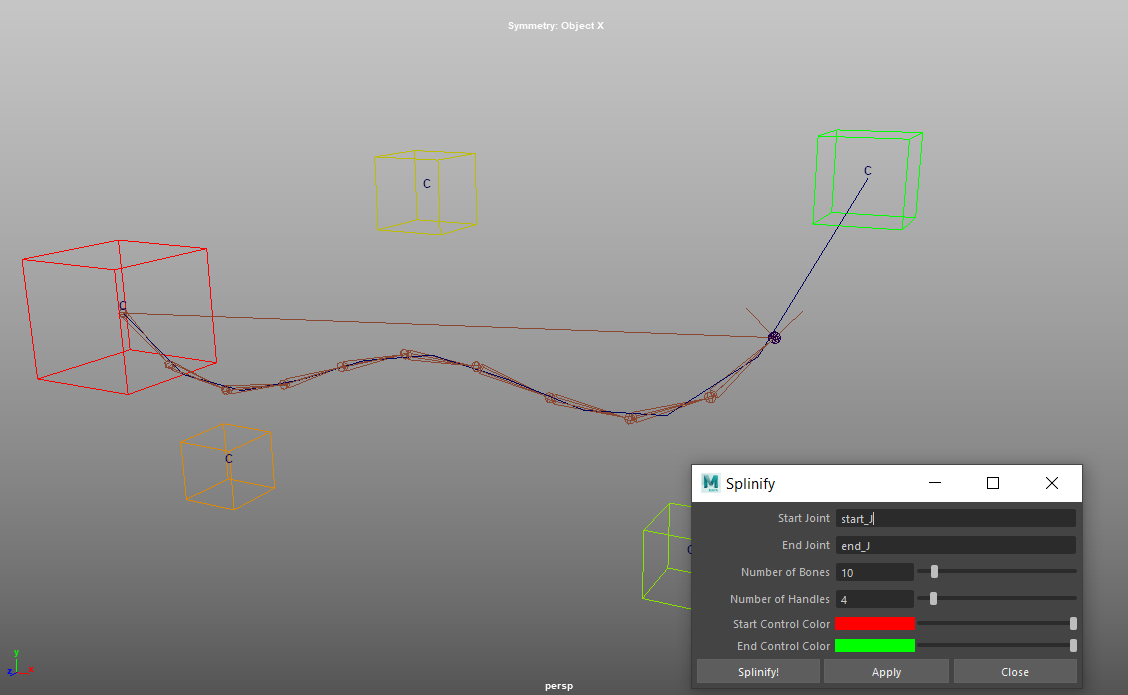
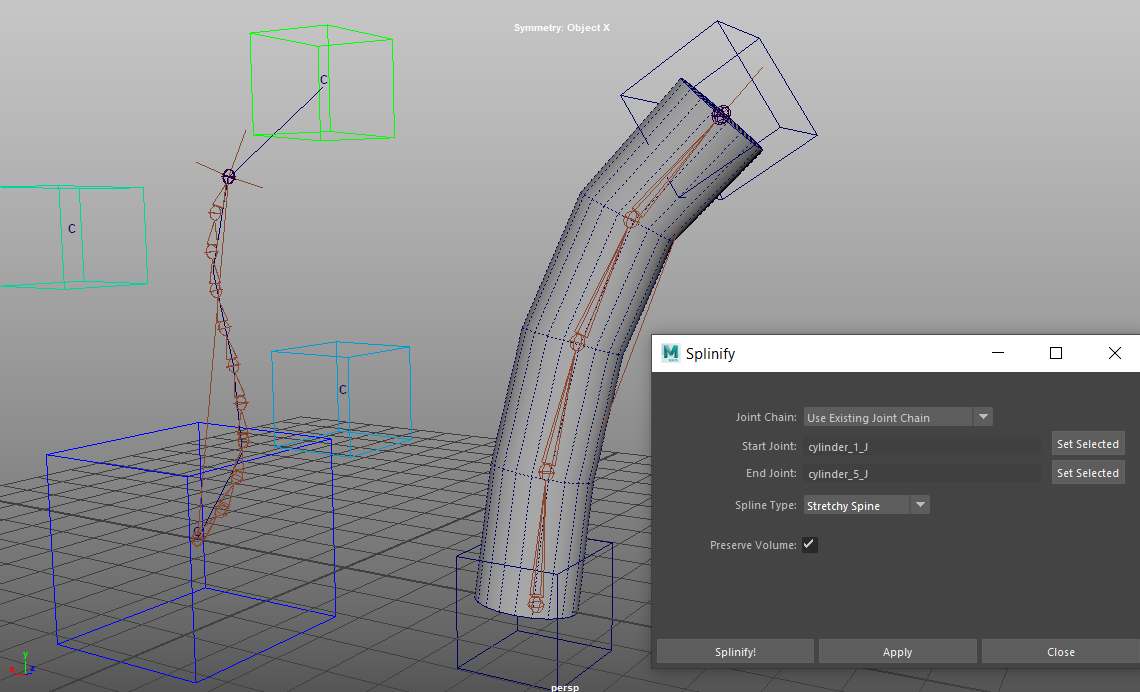
Update Splinify with stretchy spine functions

diff --git a/tools.html b/tools.html
@@ -68,6 +68,22 @@
         </div>
         <div class="row portfolio_item">
             <div class="col-lg-6 col-sm-12">
+                <img src="media/tools_splinify.png" onmouseover="this.src='media/tools_splinify.gif'" onmouseout="this.src='media/tools_splinify.png'" class="img-responsive portfolio_img">
+            </div>
+            <br/>
+            <div class="col-lg-6 col-sm-12 portfolio_description">
+                <h3>Splinify</h3>
+                <br/>
+                <p>Maya Python tool to automate spline IK setup on two given joints.</p>
+                <p>Features include:</p>
+                <li>Automatic stretchy spine setup, with volume-preserving squash and stretch</li>
+                <li>Automatic cluster controls setup, with adjustable joint chain length along spline</li>
+                <li>Option to automate joint chain setup (up to 100 joints) or use existing joints</li>
+                <a href="https://github.com/wayneyip/splinify" target="_blank"><div class="portfolio_button">GitHub</div></a>
+            </div>   
+        </div>
+        <div class="row portfolio_item">
+            <div class="col-lg-6 col-sm-12">
                 <img src="media/tools_bendify.png" onmouseover="this.src='media/tools_bendify.gif'" onmouseout="this.src='media/tools_bendify.png'" class="img-responsive portfolio_img">
             </div>
             <br/>
@@ -80,22 +96,6 @@
                 <li>Quadratic weight distribution across parent constraints, for bendy behavior</li>
                 <li>Automatic setup of curveInfo and multiplyDivide nodes, for stretchiness</li>
                 <a href="https://github.com/wayneyip/bendify" target="_blank"><div class="portfolio_button">GitHub</div></a>
-            </div>   
-        </div>
-        <div class="row portfolio_item">
-            <div class="col-lg-6 col-sm-12">
-                <img src="media/tools_splinify.png" onmouseover="this.src='media/tools_splinify.gif'" onmouseout="this.src='media/tools_splinify.png'" class="img-responsive portfolio_img">
-            </div>
-            <br/>
-            <div class="col-lg-6 col-sm-12 portfolio_description">
-                <h3>Splinify</h3>
-                <br/>
-                <p>Maya Python tool to automate spline IK setup on two given joints.</p>
-                <p>Features include:</p>
-                <li>Automatic setup of any given number of sub-joints (up to 100)</li>
-                <li>Interpolated coloring of control curves based on user-input colors</li>
-                <li>Custom attribute to adjust length of joint chain along spline</li>
-                <a href="https://github.com/wayneyip/splinify" target="_blank"><div class="portfolio_button">GitHub</div></a>
             </div>   
         </div>
         <div class="row portfolio_item">
